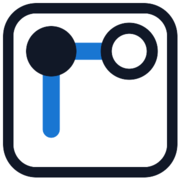
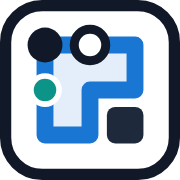
Rebrand app, assets, storage keys, and docs to Loops

diff --git a/js/main.js b/js/main.js
@@ -52,14 +52,14 @@ const state = {
   hint: null, // { sig, kind, index, hints, ... }
 };
 
-const savedCustom = (() => { try { return sanitizeCustom(JSON.parse(store.get('ms_pathCustom'))); } catch { return null; } })();
+const savedCustom = (() => { try { return sanitizeCustom(JSON.parse(store.get('loops_pathCustom'))); } catch { return null; } })();
 const settings = {
-  colorLines: store.get('ms_colorLines') === '1',
-  palette: validId(store.get('ms_pathPalette'), savedCustom),
+  colorLines: store.get('loops_colorLines') === '1',
+  palette: validId(store.get('loops_pathPalette'), savedCustom),
   custom: savedCustom,
-  autoX: store.get('ms_autoX') !== '0',
-  autoShade: store.get('ms_autoShade') !== '0',
-  incrementalHints: store.get('ms_incrementalHints') !== '0',
+  autoX: store.get('loops_autoX') !== '0',
+  autoShade: store.get('loops_autoShade') !== '0',
+  incrementalHints: store.get('loops_incrementalHints') !== '0',
 };
 
 const board = new Board($('board'), {
@@ -472,7 +472,7 @@ function updateButtons() {
 
 // ------------------------------------------------------------ persistence
 
-const saveKey = (P) => `ms_save_${puzzleHash(P)}`;
+const saveKey = (P) => `loops_save_${puzzleHash(P)}`;
 const hasSave = (P) => store.get(saveKey(P)) !== null;
 
 function save() {
@@ -528,10 +528,10 @@ function load(P) {
   return freshMarks(P);
 }
 
-const solvedSet = () => { try { return new Set(JSON.parse(store.get('ms_solved') || '[]')); } catch { return new Set(); } };
+const solvedSet = () => { try { return new Set(JSON.parse(store.get('loops_solved') || '[]')); } catch { return new Set(); } };
 const bookSolvedMap = () => {
   try {
-    const o = JSON.parse(store.get('ms_book_solved') || '{}');
+    const o = JSON.parse(store.get('loops_book_solved') || '{}');
     return o && typeof o === 'object' && !Array.isArray(o) ? o : {};
   } catch { return {}; }
 };
@@ -542,7 +542,7 @@ function recordBookSolved(book) {
   const n = book.puzzles.filter((p) => solved.has(puzzleHash(p))).length;
   const map = bookSolvedMap();
   map[book.id] = n;
-  store.set('ms_book_solved', JSON.stringify(map));
+  store.set('loops_book_solved', JSON.stringify(map));
 }
 
 function markSolved() {
@@ -550,7 +550,7 @@ function markSolved() {
   const set = solvedSet();
   if (set.has(h)) return;
   set.add(h);
-  store.set('ms_solved', JSON.stringify([...set]));
+  store.set('loops_solved', JSON.stringify([...set]));
   recordBookSolved(state.book);
 }
 
@@ -826,7 +826,7 @@ function openPuzzle(idx) {
   applyBoardSize(layout.px);
   showInfo();
   refresh();
-  store.set('ms_last', JSON.stringify({ book: book.id, idx }));
+  store.set('loops_last', JSON.stringify({ book: book.id, idx }));
   updateUrl();
 }
 
@@ -854,10 +854,10 @@ async function openBook(bookId, idx = 0) {
   openPuzzle(idx);
 }
 
-function rememberFileBook(name, text) { store.set('ms_file_book', JSON.stringify({ name, text })); }
+function rememberFileBook(name, text) { store.set('loops_file_book', JSON.stringify({ name, text })); }
 function restoreFileBook() {
   try {
-    const f = JSON.parse(store.get('ms_file_book') || 'null');
+    const f = JSON.parse(store.get('loops_file_book') || 'null');
     const puzzles = f && parseCsv(f.text);
     if (puzzles && puzzles.length) state.books.push({ id: `file:${f.name}`, name: f.name, puzzles, count: puzzles.length });
   } catch { /* ignore */ }
@@ -875,7 +875,7 @@ async function init() {
 
   const params = new URLSearchParams(location.search);
   let last = null;
-  try { last = JSON.parse(store.get('ms_last') || 'null'); } catch { /* ignore */ }
+  try { last = JSON.parse(store.get('loops_last') || 'null'); } catch { /* ignore */ }
   let bookId = params.get('book') || (last && last.book) || manifest.default || state.books[0].id;
   const known = state.books.some((b) => b.id === bookId);
   if (!known) bookId = manifest.default || state.books[0].id;
@@ -976,7 +976,7 @@ function renderBrowse() {
       grid.append(head);
       sectionNodes.push({ label: sec, el: head });
     }
-    const done = solved.has(hashes[i]), started = !done && store.get(`ms_save_${hashes[i]}`) !== null;
+    const done = solved.has(hashes[i]), started = !done && store.get(`loops_save_${hashes[i]}`) !== null;
     const b = document.createElement('button');
     b.type = 'button';
     b.className = 'browse-tile' + (done ? ' bt-solved' : started ? ' bt-in-progress' : '') + (i === state.idx ? ' bt-current' : '');
@@ -1281,15 +1281,15 @@ function renderHelpModal() {
 }
 const helpModal = setupModal('help-modal', 'help-btn', renderHelpModal);
 // Don't auto-open help if deep-linking directly to a puzzle (e.g. from docs/how_to_solve.md or armory)
-if (!store.get('ms_seenHelp') && !new URLSearchParams(location.search).has('book')) {
-  store.set('ms_seenHelp', '1');
+if (!store.get('loops_seenHelp') && !new URLSearchParams(location.search).has('book')) {
+  store.set('loops_seenHelp', '1');
   helpModal.open();
 }
 
 $('setting-dark-mode').addEventListener('change', (e) => {
   document.documentElement.setAttribute('data-theme', e.target.checked ? 'dark' : 'light');
   document.querySelector('meta[name="theme-color"]')?.setAttribute('content', e.target.checked ? '#1a1a1a' : '#1976d2');
-  store.set('ms_dark', e.target.checked ? '1' : '0');
+  store.set('loops_dark', e.target.checked ? '1' : '0');
   board.setOptions(paletteOptions());
   renderPaletteUI();
 });
@@ -1297,7 +1297,7 @@ $('setting-dark-mode').addEventListener('change', (e) => {
 $('setting-color-lines').checked = settings.colorLines;
 $('setting-color-lines').addEventListener('change', (e) => {
   settings.colorLines = e.target.checked;
-  store.set('ms_colorLines', settings.colorLines ? '1' : '0');
+  store.set('loops_colorLines', settings.colorLines ? '1' : '0');
   board.setOptions({ colorLines: settings.colorLines });
   renderPaletteUI();
 });
@@ -1306,7 +1306,7 @@ $('setting-auto-x').checked = settings.autoX;
 $('setting-auto-x').addEventListener('change', (e) => {
   autoGrace.cancel();
   settings.autoX = e.target.checked;
-  store.set('ms_autoX', settings.autoX ? '1' : '0');
+  store.set('loops_autoX', settings.autoX ? '1' : '0');
   if (state.P) {
     const syncOne = (m) => {
       reconcileAutoGray(state.P, m);
@@ -1327,7 +1327,7 @@ $('setting-auto-shade').checked = settings.autoShade;
 $('setting-auto-shade').addEventListener('change', (e) => {
   autoGrace.cancel();
   settings.autoShade = e.target.checked;
-  store.set('ms_autoShade', settings.autoShade ? '1' : '0');
+  store.set('loops_autoShade', settings.autoShade ? '1' : '0');
   if (state.P) {
     const syncOne = (m) => {
       reconcileAutoGray(state.P, m);
@@ -1348,7 +1348,7 @@ $('setting-auto-shade').addEventListener('change', (e) => {
 $('setting-incremental-hints').checked = settings.incrementalHints;
 $('setting-incremental-hints').addEventListener('change', (e) => {
   settings.incrementalHints = e.target.checked;
-  store.set('ms_incrementalHints', settings.incrementalHints ? '1' : '0');
+  store.set('loops_incrementalHints', settings.incrementalHints ? '1' : '0');
 });
 
 function renderPaletteUI() {
@@ -1381,7 +1381,7 @@ function renderPaletteUI() {
   $('palette-add').disabled = custom && settings.custom.length >= MAX_CUSTOM;
 }
 function changeCustom(redraw) {
-  store.set('ms_pathCustom', JSON.stringify(settings.custom));
+  store.set('loops_pathCustom', JSON.stringify(settings.custom));
   board.setOptions(paletteOptions());
   if (redraw) renderPaletteUI();
 }
@@ -1389,7 +1389,7 @@ for (const p of [...PRESETS, { id: CUSTOM, name: 'Custom…' }]) $('setting-pale
 $('setting-palette').addEventListener('change', (e) => {
   if (e.target.value === CUSTOM && !settings.custom) settings.custom = lightColors(settings.palette, null).slice(0, 8);
   settings.palette = e.target.value;
-  store.set('ms_pathPalette', settings.palette);
+  store.set('loops_pathPalette', settings.palette);
   changeCustom(true);
 });
 $('palette-add').addEventListener('click', () => {
@@ -1408,7 +1408,7 @@ clearBtn.addEventListener('click', () => {
   autoGrace.cancel();
   try {
     Object.keys(localStorage)
-      .filter((k) => k.startsWith('ms_save_') || k === 'ms_solved' || k === 'ms_book_solved')
+      .filter((k) => k.startsWith('loops_save_') || k === 'loops_solved' || k === 'loops_book_solved')
       .forEach((k) => localStorage.removeItem(k));
   } catch { /* ignore */ }
   disarmClear();
@@ -1601,9 +1601,9 @@ const printSolution = (P) => {
 function setupPrint() {
   const sel = $('print-selection'), sizeSel = $('print-size'), keyBox = $('print-answer-key');
   const err = $('print-error'), summary = $('print-summary'), go = $('print-go-btn');
-  const savedSize = store.get('ms_printSize');
+  const savedSize = store.get('loops_printSize');
   if ([...sizeSel.options].some((o) => o.value === savedSize)) sizeSel.value = savedSize;
-  keyBox.checked = store.get('ms_printKey') !== '0';
+  keyBox.checked = store.get('loops_printKey') !== '0';
 
   const update = () => {
     const puzzles = state.book ? state.book.puzzles : [];
@@ -1633,8 +1633,8 @@ function setupPrint() {
   }, 'settings-btn');
 
   sel.addEventListener('input', update);
-  sizeSel.addEventListener('change', () => { store.set('ms_printSize', sizeSel.value); update(); });
-  keyBox.addEventListener('change', () => { store.set('ms_printKey', keyBox.checked ? '1' : '0'); update(); });
+  sizeSel.addEventListener('change', () => { store.set('loops_printSize', sizeSel.value); update(); });
+  keyBox.addEventListener('change', () => { store.set('loops_printKey', keyBox.checked ? '1' : '0'); update(); });
   go.addEventListener('click', () => {
     const r = update();
     if (!r) return;
@@ -1678,7 +1678,7 @@ document.addEventListener('keydown', (e) => {
 
 // Expose a small test/screenshot hook on localhost (used by tools/capture_how_to_images.py)
 if (location.hostname === 'localhost' || location.hostname === '127.0.0.1') {
-  window.__masyu = {
+  window.__loops = {
     get state() { return state; },
     applyHint() {
       if (!state.hint || state.hint.kind !== 'step') return false;

diff --git a/index.html b/index.html
@@ -3,14 +3,14 @@
 <head>
   <meta charset="UTF-8">
   <meta name="viewport" content="width=device-width, initial-scale=1">
-  <title>Masyu</title>
-  <meta name="description" content="Masyu, Slitherlink, Mid-loop, Castle Wall, Hamilton cycle, and hybrid loop logic puzzles in your browser: 34,400+ verified unique puzzles graded by human solving rules, hints that explain the logic, and printable booklets.">
+  <title>Loops</title>
+  <meta name="description" content="Masyu, Slitherlink, Mid-loop, Castle Wall, Hamilton cycle, and hybrid loop logic puzzles in your browser: 54,600+ verified unique puzzles graded by human solving rules, hints that explain the logic, and printable booklets.">
   <meta name="theme-color" content="#1976d2">
-  <meta property="og:title" content="Masyu — Loop Logic Puzzles">
-  <meta property="og:description" content="34,400+ verified unique loop logic puzzles in your browser, with human-style hints that explain the logic, Auto-Shade, dark mode, and printable booklets.">
+  <meta property="og:title" content="Loops — Single-Loop Logic Puzzles">
+  <meta property="og:description" content="54,600+ verified unique loop logic puzzles in your browser — Masyu, Slitherlink, Mid-loop, Castle Wall, Hamilton cycle, and Hybrids — with hints that explain the logic, Auto-Shade, dark mode, and printable booklets.">
   <meta property="og:type" content="website">
-  <meta property="og:url" content="https://joshmermelstein.com/masyu/">
-  <meta property="og:image" content="https://joshmermelstein.com/masyu/og-image.png">
+  <meta property="og:url" content="https://joshmermelstein.com/loops/">
+  <meta property="og:image" content="https://joshmermelstein.com/loops/og-image.png">
   <meta property="og:image:width" content="1200">
   <meta property="og:image:height" content="630">
   <meta name="twitter:card" content="summary_large_image">
@@ -20,7 +20,7 @@
   <script>
     (function () {
       var dark = false;
-      try { dark = localStorage.getItem('ms_dark') === '1'; } catch (e) {}
+      try { dark = localStorage.getItem('loops_dark') === '1'; } catch (e) {}
       document.documentElement.setAttribute('data-theme', dark ? 'dark' : 'light');
       var meta = document.querySelector('meta[name="theme-color"]');
       if (meta) meta.setAttribute('content', dark ? '#1a1a1a' : '#1976d2');
@@ -31,7 +31,7 @@
 <body>
   <div id="game-container">
     <header class="topbar">
-      <h1 id="page-title">Masyu</h1>
+      <h1 id="page-title">Loops</h1>
       <div class="topbar-actions">
         <button id="settings-btn" class="icon-btn" aria-label="Settings" aria-haspopup="dialog">⚙</button>
         <button id="help-btn" class="icon-btn" aria-label="How to play" aria-haspopup="dialog">?</button>
@@ -68,7 +68,7 @@
     </div>
 
     <div class="board-wrap">
-      <div id="board" aria-label="Masyu board"></div>
+      <div id="board" aria-label="Puzzle board"></div>
     </div>
     <div id="toast" class="toast" role="status" hidden></div>
   </div>

diff --git a/js/print.js b/js/print.js
@@ -1,11 +1,11 @@
-// Printable Masyu booklets: fixed black-and-white SVG laid out by cell size to fit both A4 and Letter.
+// Printable Loops booklets: fixed black-and-white SVG laid out by cell size to fit both A4 and Letter.
 // Every page header links back to the site. Everything except buildPrintRoot is pure (tested in tests/print.test.mjs).
 import { E_ON } from './logic.js';
 import { tilesOutlinePath, interiorPlainVoids } from './board.js';
 
 const INK = '#111', GRID = '#8c8c8c';
 export const MAX_PRINT = 500;
-export const SITE_URL = 'https://joshmermelstein.com/masyu/';
+export const SITE_URL = 'https://joshmermelstein.com/loops/';
 export const SITE_TEXT = SITE_URL.replace(/^https:\/\//, '').replace(/\/$/, '');
 
 /** "1-10, 15, 20-22" -> { ids: [1..10, 15, 20, 21, 22] } or { error }. */
@@ -197,7 +197,7 @@ export function buildPrintRoot({ book, puzzles, ids, size = 'comfortable', inclu
     for (let i = 0; i < list.length; i += k) {
       const page = div('print-page', root);
       const head = div('print-head', page);
-      div('print-brand', head).append(link('Masyu', 'print-name'));
+      div('print-brand', head).append(link('Loops', 'print-name'));
       head.append(link(SITE_TEXT, 'print-url'));
       div('print-book', head, `${book.title}${heading ? ` · ${heading}` : ''}`);
       const slice = list.slice(i, i + k);

diff --git a/sw.js b/sw.js
@@ -1,8 +1,8 @@
-// Opt-in service worker for offline Masyu play.
+// Opt-in service worker for offline Loops play.
 // Registered only when the user enables "Offline play" in Settings.
-const CACHE_PREFIX = 'masyu-';
-const APP_CACHE = 'masyu-app-v4';
-const BOOK_CACHE = 'masyu-books-v1';
+const CACHE_PREFIX = 'loops-';
+const APP_CACHE = 'loops-app-v1';
+const BOOK_CACHE = 'loops-books-v1';
 
 const APP_SHELL = [
   './',

diff --git a/js/imagine.js b/js/imagine.js
@@ -1,4 +1,4 @@
-// "Imagine a segment on or off": unified short-to-medium lookahead rule for Masyu rating and Hint.
+// "Imagine a segment on or off": unified short-to-medium lookahead rule for rating and Hint.
 //
 // A hypothesis (e[x] = E_ON or e[x] = E_OFF on an undecided frontier edge) is followed with the easy
 // Beginner rules + bookkeeping until something breaks (easy contradiction, or within AREA_STEPS steps

diff --git a/js/logic.js b/js/logic.js
@@ -1,4 +1,4 @@
-// Single-loop puzzle core (Masyu, Slitherlink, Full board, and hybrids; pure logic, no DOM).
+// Single-loop puzzle core (Masyu, Slitherlink, Mid-loop, Castle Wall, Hamilton cycle, and hybrids; pure logic, no DOM).
 //
 // Shared rules: draw one single closed loop along the orthogonal grid lines (no crossings, no branches).
 // Modular constraint layers compose freely on the same board:

diff --git a/js/board.js b/js/board.js
@@ -1,4 +1,4 @@
-// SVG Masyu board renderer and pointer gestures (intersection-grid layout).
+// SVG single-loop board renderer and pointer gestures (intersection-grid layout).
 //
 // Coordinates: intersection (r, c) sits at (PAD + c*S, PAD + r*S). Grid tracks connect adjacent
 // intersections; circles sit on intersections; drawn segments and small ✕ marks sit directly on tracks;

diff --git a/js/faceparity.js b/js/faceparity.js
@@ -1,4 +1,4 @@
-// Inside / Outside dual-face parity inference for Masyu (pure logic, no DOM).
+// Inside / Outside dual-face parity inference for single-loop puzzles (pure logic, no DOM).
 //
 // Models the (rows-1) x (cols-1) dual squares plus one virtual exterior node EXT (= rows-1 * cols-1, always OUT).
 // Maintains a 2-coloring parity union-find + proof graph from:

diff --git a/docs/how_to_solve.html b/docs/how_to_solve.html
@@ -9,7 +9,7 @@
   <script>
     (function () {
       var dark = false;
-      try { dark = localStorage.getItem('ms_dark') === '1'; } catch (e) {}
+      try { dark = localStorage.getItem('loops_dark') === '1'; } catch (e) {}
       document.documentElement.setAttribute('data-theme', dark ? 'dark' : 'light');
     })();
   </script>

diff --git a/js/generator.js b/js/generator.js
@@ -1,4 +1,4 @@
-// Solution-first Masyu generator (pure JS, no DOM).
+// Solution-first single-loop puzzle generator (pure JS, no DOM).
 //
 // 1. Build a random simple closed loop on rows x cols using O(1) simple-point toggles on the
 //    (rows-1) x (cols-1) dual face grid, then locally anneal faces near undecided edges until

diff --git a/js/rating.js b/js/rating.js
@@ -1,4 +1,4 @@
-// Human-style Masyu scorer and rule table (pure logic, no DOM).
+// Human-style single-loop scorer and rule table (pure logic, no DOM).
 // The same RULES table drives both puzzle difficulty rating and the Hint button.
 //
 // Each step applies the cheapest applicable rule and never looks at the stored solution.

diff --git a/js/offline.js b/js/offline.js
@@ -1,6 +1,6 @@
 // Page-side controller for opt-in offline play (sw.js + Cache Storage).
-export const CACHE_PREFIX = 'masyu-';
-export const BOOK_CACHE = 'masyu-books-v1';
+export const CACHE_PREFIX = 'loops-';
+export const BOOK_CACHE = 'loops-books-v1';
 export const SW_PATH = './sw.js';
 
 const CONCURRENCY = 4;
